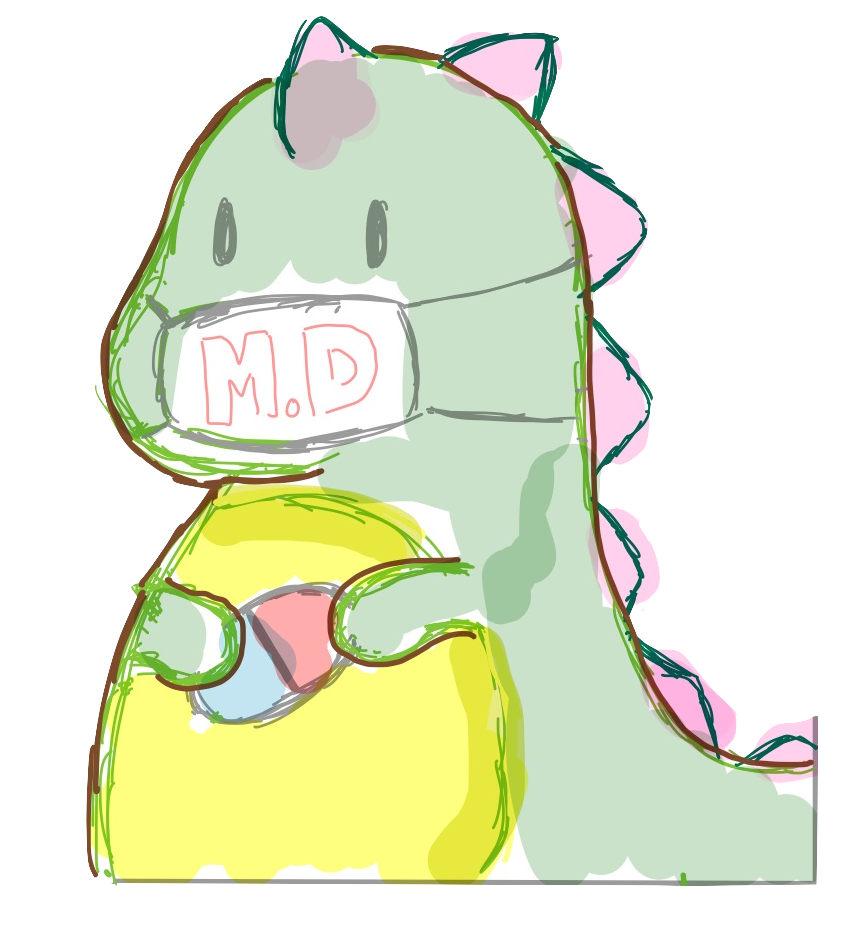
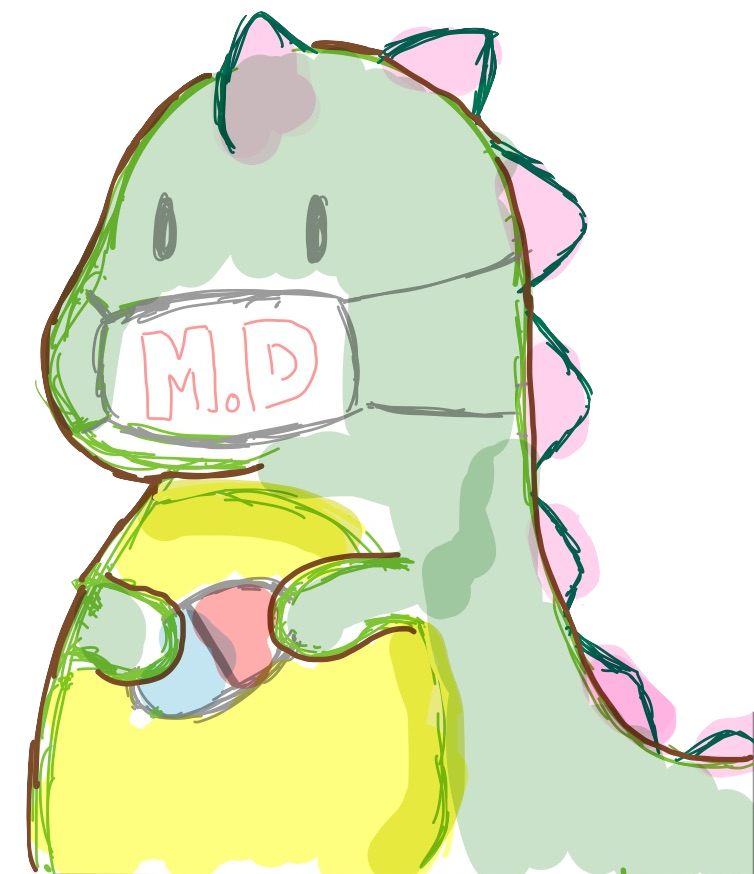
login page changes frontend

diff --git a/meddoc/src/components/LoginForm.jsx b/meddoc/src/components/LoginForm.jsx
@@ -1,6 +1,13 @@
-import React from "react";
+import React, { useState } from "react";
+import { Eye, EyeOff } from "lucide-react";
 
 const LoginForm = () => {
+  const [showPassword, setShowPassword] = useState(false);
+
+  const togglePasswordVisibility = () => {
+    setShowPassword((prev) => !prev);
+  };
+
   return (
     <div className="bg-white rounded-lg shadow-md p-8 w-full">
       <h2 className="text-3xl font-bold mb-2 text-center">Get Started Now</h2>
@@ -36,15 +43,25 @@ const LoginForm = () => {
           placeholder="Email address"
           className="w-full px-4 py-3 border border-gray-300 rounded-md focus:outline-none focus:ring-1 focus:ring-green-500"
         />
-        <input
-          type="password"
-          placeholder="Password"
-          className="w-full px-4 py-3 border border-gray-300 rounded-md focus:outline-none focus:ring-1 focus:ring-green-500"
-        />
-        
+
+        <div className="relative">
+          <input
+            type={showPassword ? "text" : "password"}
+            placeholder="Password"
+            className="w-full px-4 py-3 border border-gray-300 rounded-md focus:outline-none focus:ring-1 focus:ring-green-500"
+          />
+          <button
+            type="button"
+            onClick={togglePasswordVisibility}
+            className="absolute right-3 top-1/2 transform -translate-y-1/2 text-gray-500 hover:text-gray-700 focus:outline-none"
+          >
+            {showPassword ? <Eye size={18} /> : <EyeOff size={18} />}
+          </button>
+        </div>
+
         <button
           type="submit"
-          className="w-full bg-green-600 text-white py-3 rounded-md hover:bg-green-700 transition-colors"
+          className="w-full bg-[#879B87] text-white py-3 rounded-md hover:bg-[#b5d8b5] transition-colors"
         >
           Log In
         </button>

diff --git a/meddoc/src/App.jsx b/meddoc/src/App.jsx
@@ -5,22 +5,24 @@ import Drex from "./assets/DRex.png";
 const App = () => {
   return (
     <div className="min-h-screen flex flex-col md:flex-row">
-      {/* Left Section (Image) */}
-      <div className="flex-1 flex flex-col justify-center items-center bg-white p-8">
-        <h1 className="text-5xl font-bold text-green-600 mb-6">
+      {/* Left Section */}
+      <div className="flex-1 flex flex-col justify-between items-start bg-white p-8 relative">
+        <h1 className="text-4xl font-semibold text-[#879B87] mb-6">
           med<span className="text-black">Doc</span>
         </h1>
-        <div className="w-full max-w-md flex justify-center">
+
+        <div className="w-full max-w-2xl absolute bottom-0 left-12">
           <img
             src={Drex}
             alt="medDoc Mascot"
-            className="w-auto h-auto max-h-[400px] object-contain"
+            className="w-full h-auto object-contain"
           />
         </div>
       </div>
 
-      {/* Right Section (Login Form) */}
-      <div className="flex-1 flex justify-center items-center bg-green-100 p-8">
+
+      {/* Right Section */}
+      <div className="flex-1 flex justify-center items-center p-8" style={{ backgroundColor: '#CAE2CA' }}>
         <LoginForm />
       </div>
     </div>

diff --git a/meddoc/src/index.css b/meddoc/src/index.css
@@ -1,4 +1,8 @@
 @import "tailwindcss";
+@tailwind base;
+@tailwind components;
+@tailwind utilities;
+
 
 
 /* Your existing styles */
